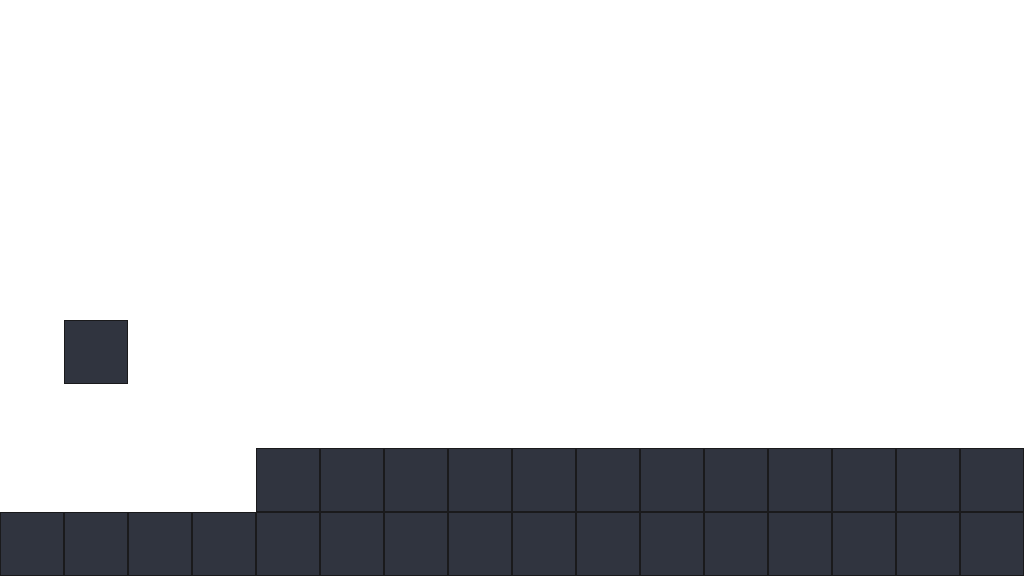
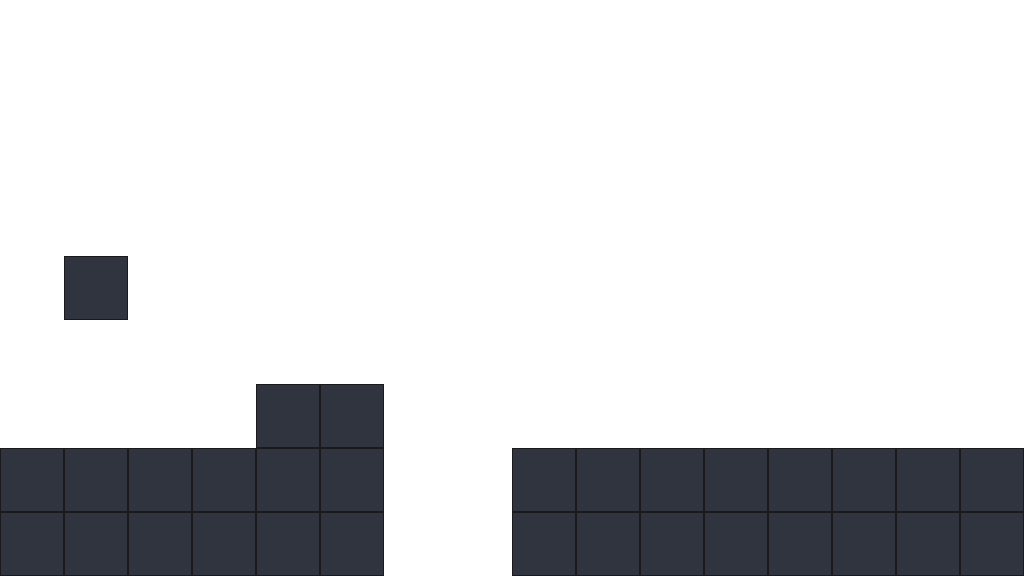
Klasse SCREEN geändert (Methode zum Entfernen von Grafiken und Anordnungsebene hinzugefügt) Klasse GAMEOBJECT geändert (Methode zum Entfernen der Grafik und Variable für die Anordnungsebene hinzugefügt) Klasse LEVELSEGMENT geändert (diagonale Kollisionen an den oberen Ecken hinzugefügt, Levelhinterg

Changed region(s): [[0.0, 0.6562, 0.5, 1.0], [0.0625, 0.4375, 0.125, 0.6875]]

diff --git a/MAIN.java b/MAIN.java
@@ -1,13 +1,18 @@
 
 import java.awt.event.KeyEvent;
+import javax.swing.*;
 
 class MAIN extends EVENT
 {
     PLAYER player;
     LEVELSEGMENT [] level;
+    GAMEOBJECT background;
+    JLabel score;
+    int intScoreValue;
     int [] textures;
+    int levelsegmentNum = 0;
     
-    //ruft Kostruktor von EVENT auf, erzeugt den Spieler und das Testlevel
+    //ruft Kostruktor von EVENT auf, erzeugt den Spieler, das Testlevel und eine Textanzeige für den Punktestand
     MAIN()
     {
         super();
@@ -18,16 +23,22 @@ class MAIN extends EVENT
         0, 0, 0, 0, 0, 0, 0, 0, 0, 0, 0, 0, 0, 0, 0, 0, 
         0, 0, 0, 0, 0, 0, 0, 0, 0, 0, 0, 0, 0, 0, 0, 0, 
         0, 0, 0, 0, 0, 0, 0, 0, 0, 0, 0, 0, 0, 0, 0, 0, 
-        0, 0, 0, 0, 0, 0, 0, 0, 0, 0, 0, 0, 0, 0, 0, 0, 
         0, 1, 0, 0, 0, 0, 0, 0, 0, 0, 0, 0, 0, 0, 0, 0, 
         0, 0, 0, 0, 0, 0, 0, 0, 0, 0, 0, 0, 0, 0, 0, 0, 
-        0, 0, 0, 0, 1, 1, 1, 1, 1, 1, 1, 1, 1, 1, 1, 1, 
-        1, 1, 1, 1, 1, 1, 1, 1, 1, 1, 1, 1, 1, 1, 1, 1};
+        0, 0, 0, 0, 1, 1, 0, 0, 0, 0, 0, 0, 0, 0, 0, 0, 
+        1, 1, 1, 1, 1, 1, 0, 0, 1, 1, 1, 1, 1, 1, 1, 1, 
+        1, 1, 1, 1, 1, 1, 0, 0, 1, 1, 1, 1, 1, 1, 1, 1};
         
         player = new PLAYER(textures);
-        level = new LEVELSEGMENT [2];
-        level[0] = new LEVELSEGMENT(textures, "bg.png", "testlevel.png", 0);
-        level[1] = new LEVELSEGMENT(textures, "bg.png", "testlevel.png", 1);
+        level = new LEVELSEGMENT [1];
+        level[0] = new LEVELSEGMENT(textures, "testlevel.png", 0);
+        background = new GAMEOBJECT(0, 0, SCREEN.getXSize(), SCREEN.getYSize(), "bg.png", 0);
+        
+        score = new JLabel("0");
+        SCREEN.getLayeredPane().add(score, new Integer(3));
+        score.setSize(900, 120);
+        score.setLocation(50, 0);
+        score.setFont(score.getFont().deriveFont(64.0f));
     }
     
     //sorgt für richtige Skalierung des Fensters, erzeugt ein Objekt der Klasse MAIN
@@ -66,11 +77,29 @@ class MAIN extends EVENT
             playerPos -= screenSizex;
             index += 1;
         }
+        if (index > levelsegmentNum - 1)
+        {
+            addLevelsegment();
+        }
+        
+        //zeigt den Punktestand an
+        if ((player.posx / 100) * 10 > intScoreValue)
+        {
+            intScoreValue = (player.posx / 100) * 10;
+        }
+        String stringScoreValue = String.valueOf(intScoreValue);
+        score.setText(stringScoreValue);
         
         //berechnet die virtuelle Position des Spielers
         player.velocityCalculation(level[index].gameobjectOnGround(player));
         int [] position = level[index].GameobjectCollision(player);
         player.setVirtualPosition(position[0], position[1]);
+        
+        //prüft, ob der Spieler heruntergefallen ist und ruft gegebenenfalls reset() auf
+        if (player.posy > 800)
+        {
+            reset();
+        }
         
         //setzt die tatsächliche Position aller nicht-Spieler-GAMEOBJECTs (Kameraverfolgung)
         player.setRealPosition(480, player.posy);
@@ -78,5 +107,39 @@ class MAIN extends EVENT
         {
             level[i].setPosition(480 - player.posx + level[i].position, 0);
         }
+    }
+    
+    //setzt beim Tod des Spielers alle relevanten Werte und Grafiken zurück 
+    void reset()
+    {
+        player.posx = 0;
+        player.posy = 320;
+        player.vely = 0;
+        player.velx = 0;
+        
+        intScoreValue = 0;
+        score.setText("0");
+        
+        for (int i = 0; i < level.length; i++)
+        {
+            level[i].remove();
+        }
+        
+        level = new LEVELSEGMENT[1];
+        level[0] = new LEVELSEGMENT(textures, "testlevel.png", 0);
+        levelsegmentNum = 0;
+    }
+    
+    //fügt ein Levelsegment zum bestehenden Level hinzu
+    void addLevelsegment()
+    {
+        LEVELSEGMENT [] newLevel = new LEVELSEGMENT[levelsegmentNum + 2];
+        for (int i = 0; i < level.length; i++)
+        {
+            newLevel[i] = level[i];
+        }
+        newLevel[levelsegmentNum + 1] = new LEVELSEGMENT(textures, "testlevel.png", levelsegmentNum + 1);
+        levelsegmentNum += 1;
+        level = newLevel;
     }
 }

diff --git a/LEVELSEGMENT.java b/LEVELSEGMENT.java
@@ -1,25 +1,28 @@
 
 class LEVELSEGMENT
 {
-    GAMEOBJECT background;
     GAMEOBJECT level;
     int [] platforms;
     int position;
     
     //übernimmt angegebene Level-Daten, erzeugt Hinter- und Vordergrund
-    LEVELSEGMENT(int [] initPlatforms, String backgroundPath, String levelPath, int id)
+    LEVELSEGMENT(int [] initPlatforms, String levelPath, int id)
     {
         platforms = initPlatforms;
         position = id * SCREEN.getXSize() * SCREEN.getTileSize();
-        level = new GAMEOBJECT(position, 0, SCREEN.getXSize(), SCREEN.getYSize(), levelPath);
-        background = new GAMEOBJECT(position, 0, SCREEN.getXSize(), SCREEN.getYSize(), backgroundPath);
+        level = new GAMEOBJECT(position, 0, SCREEN.getXSize(), SCREEN.getYSize(), levelPath, 1);
     }
     
     //setzt die Position des Hinter- und Vordergrundes
     void setPosition(int newPosx, int newPosy)
     {
-        background.setPosition(newPosx, newPosy);
         level.setPosition(newPosx, newPosy);
+    }
+    
+    //entfernt die Grafik des Levels vom Ausgabefenster
+    void remove()
+    {
+        level.remove();
     }
     
     //berechnet die neue Position eines GAMEOBJECTs unter Berücksichtigung der Kollisionen
@@ -30,6 +33,32 @@ class LEVELSEGMENT
         int [] newPosition = new int [2];
         boolean xCollision = false;
         boolean yCollision = false;
+        
+        if (g.posx % 64 == 0 && g.posy % 64 == 0)
+        {
+            if (g.velx < 0 && g.vely < 0)
+            {
+                int index = checkForCollision(g.posx - 1, g.posy - SCREEN.getTileSize());
+                if (index >= 0)
+                {
+                    newPosition[0] = g.posx;
+                    newPosition[1] = g.posy;
+                    xCollision = true;
+                    yCollision = true;
+                }
+            }
+            else if (g.velx > 0 && g.vely < 0)
+            {
+                int index = checkForCollision(g.posx + g.sizex, g.posy - SCREEN.getTileSize());
+                if (index >= 0)
+                {
+                    newPosition[0] = g.posx;
+                    newPosition[1] = g.posy;
+                    xCollision = true;
+                    yCollision = true;
+                }
+            }
+        }
         
         if (g.vely > 0)
         {
@@ -132,6 +161,11 @@ class LEVELSEGMENT
     //überprüft, ob eine Kollision am angegebenen Punkt vorliegt
     int checkForCollision(int posx, int posy)
     {
+        if (posx > SCREEN.getXSize() * SCREEN.getTileSize() + position || posy > SCREEN.getYSize() * SCREEN.getTileSize() + position || posx < 0 || posy < 0)
+        {
+            return -1;
+        }
+        
         int index = getIndex(posx, posy);
         
         if (index < SCREEN.getXSize() * SCREEN.getYSize() && platforms[index] == 1)

diff --git a/GAMEOBJECT.java b/GAMEOBJECT.java
@@ -14,7 +14,7 @@ public class GAMEOBJECT
     JLabel gameObject;
     
     //erzeugt ein GAMEOBJECT an der angegebenen Position, setzt es auf die angegebene Größe und setzt die Textur auf die angegebene
-    GAMEOBJECT(int initPosx, int initPosy, int initSizex, int initSizey, String path)
+    GAMEOBJECT(int initPosx, int initPosy, int initSizex, int initSizey, String path, int order)
     {
         posx = initPosx;
         posy = initPosy;
@@ -25,20 +25,27 @@ public class GAMEOBJECT
         
         texture = new ImageIcon(path);
         gameObject = new JLabel(texture);
-        SCREEN.getScreen().add(gameObject);
+        SCREEN.getLayeredPane().add(gameObject, new Integer(order));
         gameObject.setSize(sizex, sizey);
         gameObject.setLocation(posx, posy);
     }
     
-    //setzt die Position eines GAMEOBJECTS
+    //setzt die Position eines GAMEOBJECTs
     public void setPosition(int newPosx, int newPosy)
     {
         posx = newPosx;
         posy = newPosy;
         gameObject.setLocation(posx, posy);
     }
+    //setzt die grafische Position eines GAMEOBJECTs
     public void setLocation(int newPosx, int newPosy)
     {
         gameObject.setLocation(newPosx, newPosy);
+    }
+    
+    //entfernt die Grafik des GAMEOBJECTs vom Ausgabefenster
+    public void remove()
+    {
+        SCREEN.remove(gameObject);
     }
 }

diff --git a/SCREEN.java b/SCREEN.java
@@ -9,6 +9,7 @@ class SCREEN
     private static final int xSize = 16;
     
     private static JFrame window;
+    private static JLayeredPane pane;
     
     //erzeugt das Ausgabefenster
     SCREEN()
@@ -21,12 +22,18 @@ class SCREEN
         window.getContentPane().setBackground(new Color(135, 206, 250));
         Insets i = window.getInsets();
         window.setSize((xSize * tileSize) + 18, (ySize * tileSize) + i.top + 9);
+        pane = window.getLayeredPane();
     }
     
     //gibt das Ausgabefenster zurück
     static JFrame getScreen()
     {
         return window;
+    }
+    //gibt die Anordnungsebene zurück
+    static JLayeredPane getLayeredPane()
+    {
+        return pane;
     }
     
     //gibt die Größe einer Zelle zurück
@@ -43,5 +50,12 @@ class SCREEN
     static int getYSize()
     {
         return ySize;
+    }
+    
+    //entfernt das angegebene JLabel
+    static void remove(JLabel l)
+    {
+        pane.remove(l);
+        pane.repaint();
     }
 }

diff --git a/PLAYER.java b/PLAYER.java
@@ -10,7 +10,7 @@ class PLAYER extends GAMEOBJECT
     //erzeugt ein GAMEOBJECT mit Spielertextur und -größe
     PLAYER(int [] level)
     {
-        super(0, 0, 1, 2, "player.png");
+        super(0, 320, 1, 2, "player.png", 2);
         textures = new int [144];
         textures = level;
     }
@@ -98,7 +98,7 @@ class PLAYER extends GAMEOBJECT
         }
     }
     
-    //verändert nur die Werte der Positions-Variablen
+    //verändert nur die Werte der Positions-Variablen (der virtuellen Position)
     void setVirtualPosition(int newPosx, int newPosy)
     {
         posx = newPosx;

diff --git a/PLATFORM.java b/PLATFORM.java
@@ -4,6 +4,6 @@ class PLATFORM extends GAMEOBJECT
     //erzeugt ein GAMEOBJECT mit Plattformgröße und der angegebenen Textur
     PLATFORM(int xPos, int yPos, String texture)
     {
-        super(xPos, yPos, 1, 1, texture);
+        super(xPos, yPos, 1, 1, texture, 1);
     }
 }
